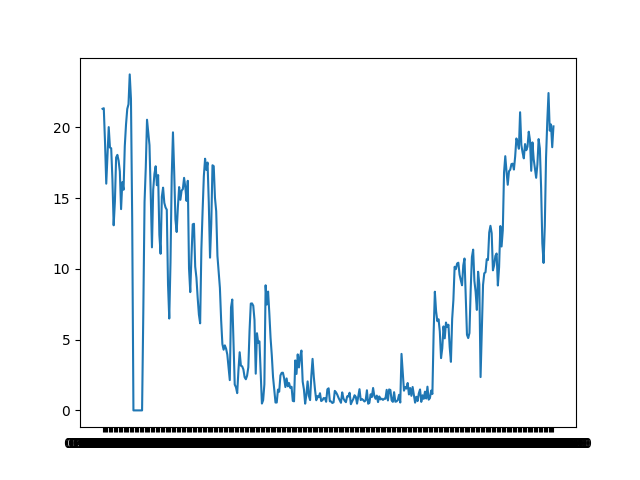
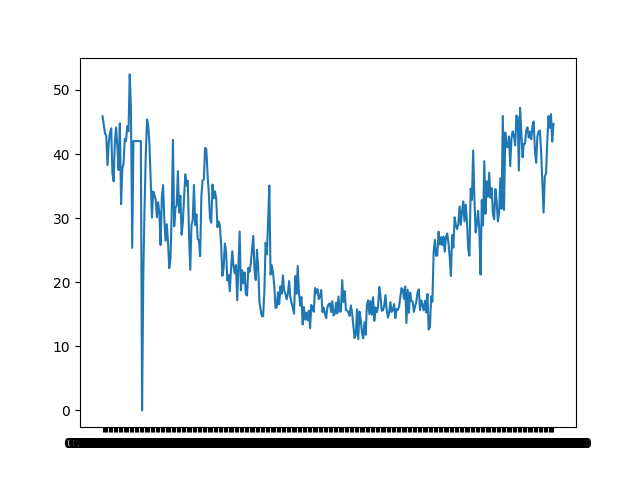
only one y

diff --git a/src/statistics.js b/src/statistics.js
@@ -14,7 +14,6 @@ const dataDay = {
       fill: false,
       backgroundColor: 'rgb(95, 206, 78)',
       borderColor: 'rgba(95, 206, 78, 0.8)',
-      yAxisID: 'y-axis-1',
       tension: 0.1,
     },
     {
@@ -25,7 +24,6 @@ const dataDay = {
       fill: false,
       backgroundColor: 'rgb(54, 162, 235)',
       borderColor: 'rgba(54, 162, 235, 0.2)',
-      yAxisID: 'y-axis-1',
       tension: 0.1,
     }
   ],
@@ -43,7 +41,6 @@ const dataMonth = {
       fill: false,
       backgroundColor: 'rgb(95, 206, 78)',
       borderColor: 'rgba(95, 206, 78, 0.8)',
-      yAxisID: 'y-axis-1',
     },
     {
       label: 'average',
@@ -54,23 +51,84 @@ const dataMonth = {
       fill: false,
       backgroundColor: 'rgb(54, 162, 235)',
       borderColor: 'rgba(54, 162, 235, 0.2)',
-      yAxisID: 'y-axis-1',
     }
+  ],
+};
+const dataYear = {
+  labels: ['01.01.2020', '02.01.2020', '03.01.2020', '04.01.2020', '05.01.2020', '06.01.2020', '07.01.2020', '08.01.2020', '09.01.2020', '10.01.2020', '11.01.2020', '12.01.2020', '13.01.2020', '14.01.2020', '15.01.2020', '16.01.2020', '17.01.2020', '18.01.2020', '19.01.2020', '20.01.2020', '21.01.2020', '22.01.2020', '23.01.2020', '24.01.2020', '25.01.2020', '26.01.2020', '27.01.2020', '28.01.2020', '29.01.2020', '30.01.2020', '31.01.2020', '01.02.2020', '02.02.2020', '03.02.2020', '04.02.2020', '05.02.2020', '06.02.2020', '07.02.2020', '08.02.2020', '09.02.2020', '10.02.2020', '11.02.2020', '12.02.2020', '13.02.2020', '14.02.2020', 
+  '15.02.2020', '16.02.2020', '17.02.2020', '18.02.2020', '19.02.2020', '20.02.2020', '21.02.2020', '22.02.2020', '23.02.2020', '24.02.2020', '25.02.2020', '26.02.2020', '27.02.2020', '28.02.2020', '29.02.2020', '01.03.2020', '02.03.2020', '03.03.2020', '04.03.2020', '05.03.2020', '06.03.2020', '07.03.2020', '08.03.2020', '09.03.2020', '10.03.2020', '11.03.2020', '12.03.2020', '13.03.2020', '14.03.2020', '15.03.2020', '16.03.2020', '17.03.2020', '18.03.2020', '19.03.2020', '20.03.2020', '21.03.2020', '22.03.2020', '23.03.2020', '24.03.2020', '25.03.2020', '26.03.2020', '27.03.2020', '28.03.2020', '29.03.2020', '30.03.2020', '31.03.2020', '01.04.2020', '02.04.2020', '03.04.2020', '04.04.2020', '05.04.2020', '06.04.2020', '07.04.2020', '08.04.2020', '09.04.2020', '10.04.2020', '11.04.2020', '12.04.2020', '13.04.2020', '14.04.2020', '15.04.2020', '16.04.2020', '17.04.2020', '18.04.2020', '19.04.2020', '20.04.2020', '21.04.2020', '22.04.2020', '23.04.2020', '24.04.2020', '25.04.2020', '26.04.2020', '27.04.2020', '28.04.2020', '29.04.2020', '30.04.2020', '01.05.2020', '02.05.2020', '03.05.2020', '04.05.2020', 
+  '05.05.2020', '06.05.2020', '07.05.2020', '08.05.2020', '09.05.2020', '10.05.2020', '11.05.2020', '12.05.2020', '13.05.2020', '14.05.2020', '15.05.2020', '16.05.2020', '17.05.2020', '18.05.2020', '19.05.2020', '20.05.2020', '21.05.2020', '22.05.2020', '23.05.2020', '24.05.2020', '25.05.2020', '26.05.2020', '27.05.2020', '28.05.2020', '29.05.2020', '30.05.2020', '31.05.2020', '01.06.2020', '02.06.2020', '03.06.2020', '04.06.2020', '05.06.2020', '06.06.2020', '07.06.2020', '08.06.2020', '09.06.2020', '10.06.2020', '11.06.2020', '12.06.2020', '13.06.2020', '14.06.2020', '15.06.2020', '16.06.2020', '17.06.2020', '18.06.2020', '19.06.2020', '20.06.2020', '21.06.2020', '22.06.2020', '23.06.2020', '24.06.2020', '25.06.2020', '26.06.2020', '27.06.2020', '28.06.2020', '29.06.2020', '30.06.2020', '01.07.2020', '02.07.2020', '03.07.2020', '04.07.2020', '05.07.2020', '06.07.2020', '07.07.2020', '08.07.2020', '09.07.2020', '10.07.2020', '11.07.2020', '12.07.2020', '13.07.2020', '14.07.2020', '15.07.2020', '16.07.2020', '17.07.2020', '18.07.2020', '19.07.2020', '20.07.2020', '21.07.2020', '22.07.2020', '23.07.2020', 
+  '24.07.2020', '25.07.2020', '26.07.2020', '27.07.2020', '28.07.2020', '29.07.2020', '30.07.2020', '31.07.2020', '01.08.2020', '02.08.2020', '03.08.2020', '04.08.2020', '05.08.2020', '06.08.2020', '07.08.2020', '08.08.2020', '09.08.2020', '10.08.2020', '11.08.2020', '12.08.2020', '13.08.2020', '14.08.2020', '15.08.2020', '16.08.2020', '17.08.2020', '18.08.2020', '19.08.2020', '20.08.2020', '21.08.2020', '22.08.2020', '23.08.2020', '24.08.2020', '25.08.2020', '26.08.2020', '27.08.2020', '28.08.2020', '29.08.2020', '30.08.2020', '31.08.2020', '01.09.2020', '02.09.2020', '03.09.2020', '04.09.2020', '05.09.2020', '06.09.2020', '07.09.2020', '08.09.2020', '09.09.2020', '10.09.2020', '11.09.2020', '12.09.2020', '13.09.2020', '14.09.2020', '15.09.2020', '16.09.2020', '17.09.2020', '18.09.2020', '19.09.2020', '20.09.2020', '21.09.2020', '22.09.2020', '23.09.2020', '24.09.2020', '25.09.2020', '26.09.2020', '27.09.2020', '28.09.2020', '29.09.2020', '30.09.2020', '01.10.2020', '02.10.2020', '03.10.2020', '04.10.2020', '05.10.2020', '06.10.2020', '07.10.2020', '08.10.2020', '09.10.2020', '10.10.2020', '11.10.2020', 
+  '12.10.2020', '13.10.2020', '14.10.2020', '15.10.2020', '16.10.2020', '17.10.2020', '18.10.2020', '19.10.2020', '20.10.2020', '21.10.2020', '22.10.2020', '23.10.2020', '24.10.2020', '25.10.2020', '26.10.2020', '27.10.2020', '28.10.2020', '29.10.2020', '30.10.2020', '31.10.2020', '01.11.2020', '02.11.2020', '03.11.2020', '04.11.2020', '05.11.2020', '06.11.2020', '07.11.2020', '08.11.2020', '09.11.2020', '10.11.2020', '11.11.2020', '12.11.2020', '13.11.2020', '14.11.2020', '15.11.2020', '16.11.2020', '17.11.2020', '18.11.2020', '19.11.2020', '20.11.2020', '21.11.2020', '22.11.2020', '23.11.2020', '24.11.2020', '25.11.2020', '26.11.2020', '27.11.2020', '28.11.2020', '29.11.2020', '30.11.2020', '01.12.2020', '02.12.2020', '03.12.2020', '04.12.2020', '05.12.2020', '06.12.2020', '07.12.2020', '08.12.2020', '09.12.2020', '10.12.2020', '11.12.2020', '12.12.2020', '13.12.2020', '14.12.2020', '15.12.2020', '16.12.2020', '17.12.2020', '18.12.2020', '19.12.2020', '20.12.2020', '21.12.2020', '22.12.2020', '23.12.2020', '24.12.2020', '25.12.2020', '26.12.2020', '27.12.2020', '28.12.2020', '29.12.2020', '30.12.2020', 
+  '31.12.2020'],
+  datasets: [
+    {
+      label: '2020',
+      data: [45.89, 44.51, 43.21, 42.92, 38.26, 41.69, 43.28, 44.01, 36.96,
+        35.74, 42.06, 44.14, 41.12, 37.51, 44.78, 32.18, 37.64, 38.57,
+        42.37, 42.02, 44.33, 43.55, 52.42, 46.9 , 25.36, 42.02, 42.02,
+        42.02, 42.02, 42.02, 42.02, 42.02,  0.  , 21.27, 31.66, 39.98,
+        45.39, 44.35, 41.47, 35.94, 30.08, 34.16, 33.6 , 32.92, 30.12,
+        32.48, 30.8 , 25.78, 33.26, 35.16, 29.79, 26.46, 29.06, 26.25,
+        22.19, 23.68, 30.87, 42.22, 28.73, 31.58, 31.98, 37.32, 30.86,
+        33.5 , 27.42, 29.32, 33.26, 36.82, 35.07, 35.84, 27.35, 21.93,
+        28.91, 29.68, 35.17, 28.92, 30.58, 26.72, 26.54, 24.05, 33.42,
+        35.91, 36.04, 40.94, 40.72, 36.87, 33.88, 29.95, 29.3 , 35.23,
+        33.09, 34.18, 33.  , 28.58, 29.49, 28.86, 25.8 , 20.99, 22.17,
+        26.02, 24.79, 20.26, 21.13, 18.57, 22.06, 24.82, 22.51, 21.4 ,
+        22.67, 17.18, 22.33, 27.92, 18.74, 21.86, 19.84, 21.51, 18.13,
+        17.92, 22.26, 21.64, 22.92, 25.01, 27.24, 21.98, 20.35, 25.05,
+        22.21, 16.91, 15.7 , 14.66, 14.71, 18.59, 26.15, 24.35, 29.48,
+        35.09, 21.2 , 22.62, 21.48, 19.51, 15.98, 16.08, 18.43, 16.56,
+        19.34, 18.19, 21.07, 18.73, 18.2 , 17.34, 18.14, 20.19, 17.74,
+        16.79, 16.07, 15.1 , 20.96, 18.22, 22.52, 18.36, 16.35, 17.69,
+        13.4 , 16.12, 14.16, 15.24, 14.05, 15.56, 12.83, 16.46, 15.8 ,
+        15.38, 19.09, 18.3 , 18.92, 17.37, 17.75, 18.76, 15.34, 16.05,
+        15.06, 14.39, 16.07, 16.55, 16.71, 15.35, 17.05, 14.8 , 15.09,
+        16.81, 15.14, 17.77, 15.42, 15.44, 20.33, 16.94, 18.6 , 15.65,
+        15.6 , 15.32, 14.75, 16.39, 15.23, 13.28, 11.29, 11.73, 15.77,
+        11.1 , 15.41, 14.15, 12.06, 11.24, 13.75, 11.8 , 16.46, 17.16,
+        15.03, 17.07, 14.92, 17.67, 13.99, 16.06, 15.28, 16.1 , 19.27,
+        17.85, 15.54, 15.62, 16.28, 17.98, 15.73, 14.47, 15.16, 16.89,
+        15.36, 15.66, 16.59, 14.41, 15.81, 15.66, 16.18, 17.69, 19.08,
+        18.86, 17.42, 19.33, 13.64, 18.83, 15.22, 18.39, 17.09, 16.98,
+        15.37, 16.25, 16.96, 18.43, 18.9 , 15.66, 17.17, 16.44, 15.61,
+        17.12, 15.28, 18.17, 12.6 , 12.96, 17.77, 16.96, 24.63, 26.62,
+        24.11, 24.17, 27.88, 25.9 , 27.02, 25.8 , 27.09, 24.77, 27.05,
+        27.6 , 26.18, 24.  , 20.98, 27.35, 25.4 , 30.13, 28.86, 28.3 ,
+        29.07, 31.83, 28.94, 31.06, 32.6 , 29.5 , 32.12, 29.53, 25.15,
+        24.14, 34.59, 32.83, 40.55, 33.06, 27.76, 29.11, 31.13, 28.09,
+        21.18, 32.83, 28.86, 38.88, 30.69, 35.75, 33.35, 37.08, 33.17,
+        34.67, 30.61, 29.83, 34.52, 32.69, 29.49, 30.72, 36.2 , 31.46,
+        45.95, 31.28, 43.36, 41.06, 41.1 , 42.75, 38.12, 42.4 , 43.52,
+        42.82, 41.37, 46.01, 45.74, 37.42, 47.22, 43.23, 39.49, 41.59,
+        41.63, 43.78, 44.17, 42.56, 43.5 , 42.3 , 44.28, 45.07, 40.44,
+        38.64, 42.78, 43.51, 43.65, 40.47, 35.75, 30.86, 36.46, 37.  ,
+        41.89, 45.92, 44.08, 46.22, 41.92, 44.68],
+      fill: false,
+      backgroundColor: 'rgb(95, 206, 78)',
+      borderColor: 'rgba(95, 206, 78, 0.8)',
+    },
   ],
 };
 
 export default function Statistics() {
   return (
     <div>
-    <br/>
-    <div>
-      <h1 className="text-2xl">Day</h1>
-      <LineChart data={dataDay}>dataDay</LineChart>
-    </div>
       <br/>
       <div>
-        <h1 className="text-2xl">Month</h1>
+        <h1 className="text-3xl">Day</h1>
+        <LineChart data={dataDay}>dataDay</LineChart>
+      </div>
+      <br/>
+      <div>
+        <h1 className="text-3xl">Month</h1>
         <LineChart data={dataMonth}>dataDay</LineChart>
+      </div>
+      <br/>
+      <div>
+        <h1 className="text-3xl">Year</h1>
+        <LineChart data={dataYear}>dataDay</LineChart>
       </div>
     </div>
   )

diff --git a/src/linechart.js b/src/linechart.js
@@ -6,27 +6,7 @@ const options = {
       y: {
         beginAtZero: true,
       },
-      yAxes: [
-        {
-          beginAtZero: true,
-          type: 'linear',
-          display: true,
-          position: 'left',
-          id: 'y-axis-1',
-          gridLines: {
-            drawOnArea: false,
-          },
-        },
-        {
-          type: 'linear',
-          display: false,
-          position: 'right',
-          id: 'y-axis-2',
-          gridLines: {
-            drawOnArea: false,
-          },
-        },
-      ],
+      
     },
   };
 

diff --git a/ElectricityData/diags.py b/ElectricityData/diags.py
@@ -18,6 +18,7 @@ print()
 
 dates = []
 daily = []
+'''
 dailyB = []
 dailyC = []
 dailyD = []
@@ -25,10 +26,12 @@ dailyE = []
 dailyF = []
 dailyG = []
 dailyH = []
+'''
 
 for dat in df["Ab-Datum"].drop_duplicates():
     
     firstdf = df[df["Ab-Datum"] == dat]
+    '''
     firstdfB = dfB[dfB["Ab-Datum"] == dat]
     firstdfC = dfC[dfC["Ab-Datum"] == dat]
     firstdfD = dfD[dfD["Ab-Datum"] == dat]
@@ -36,24 +39,31 @@ for dat in df["Ab-Datum"].drop_duplicates():
     firstdfF = dfF[dfF["Ab-Datum"] == dat]
     firstdfG = dfG[dfG["Ab-Datum"] == dat]
     firstdfH = dfH[dfH["Ab-Datum"] == dat]
+    '''
 
     #data_wirk.append(firstdf["Wirk-Profilwert"].to_numpy())
     #data_blind.append(firstdf["Blind-Profilwert"].to_numpy())
 
     #plt.plot(firstdf["Wirk-Profilwert"].values)
     dates.append(dat)
-    daily.append(np.sum(firstdf["Blind-Profilwert"].values))
-    dailyB.append(np.sum(firstdfB["Blind-Profilwert"].values))
-    dailyC.append(np.sum(firstdfC["Blind-Profilwert"].values))
-    dailyD.append(np.sum(firstdfD["Blind-Profilwert"].values))
-    dailyE.append(np.sum(firstdfE["Blind-Profilwert"].values))
-    dailyF.append(np.sum(firstdfF["Blind-Profilwert"].values))
-    dailyG.append(np.sum(firstdfG["Blind-Profilwert"].values))
-    dailyH.append(np.sum(firstdfH["Blind-Profilwert"].values))
+    daily.append(np.sum(firstdf["Wirk-Profilwert"].values))
+    '''
+    dailyB.append(np.sum(firstdfB["Wirk-Profilwert"].values))
+    dailyC.append(np.sum(firstdfC["Wirk-Profilwert"].values))
+    dailyD.append(np.sum(firstdfD["Wirk-Profilwert"].values))
+    dailyE.append(np.sum(firstdfE["Wirk-Profilwert"].values))
+    dailyF.append(np.sum(firstdfF["Wirk-Profilwert"].values))
+    dailyG.append(np.sum(firstdfG["Wirk-Profilwert"].values))
+    dailyH.append(np.sum(firstdfH["Wirk-Profilwert"].values))
+    '''
 
     #plt.plot(firstdf["Blind-Profilwert"].values)
     
+print(f"Label = {[dates]}")
+print(f"Data = {[np.around(daily,decimals=2)]}")   
+    
 plt.plot(dates,daily,label="A")
+'''
 plt.plot(dates,dailyB,label="B")
 plt.plot(dates,dailyC,label="C")
 plt.plot(dates,dailyD,label="D")
@@ -61,14 +71,17 @@ plt.plot(dates,dailyE,label="E")
 plt.plot(dates,dailyF,label="F")
 plt.plot(dates,dailyG,label="G")
 plt.plot(dates,dailyH,label="H")
+'''
 plt.legend()
 #print(data_wirk)
 plt.savefig(pathpic+'HousesYear.png')
 plt.show()
 
+quit()
 plt.plot(dates,daily)
 plt.savefig(pathpic+'AYear.png')
 plt.show()
+
 
 plt.plot(dates,dailyB)
 plt.savefig(pathpic+'BYear.png')
